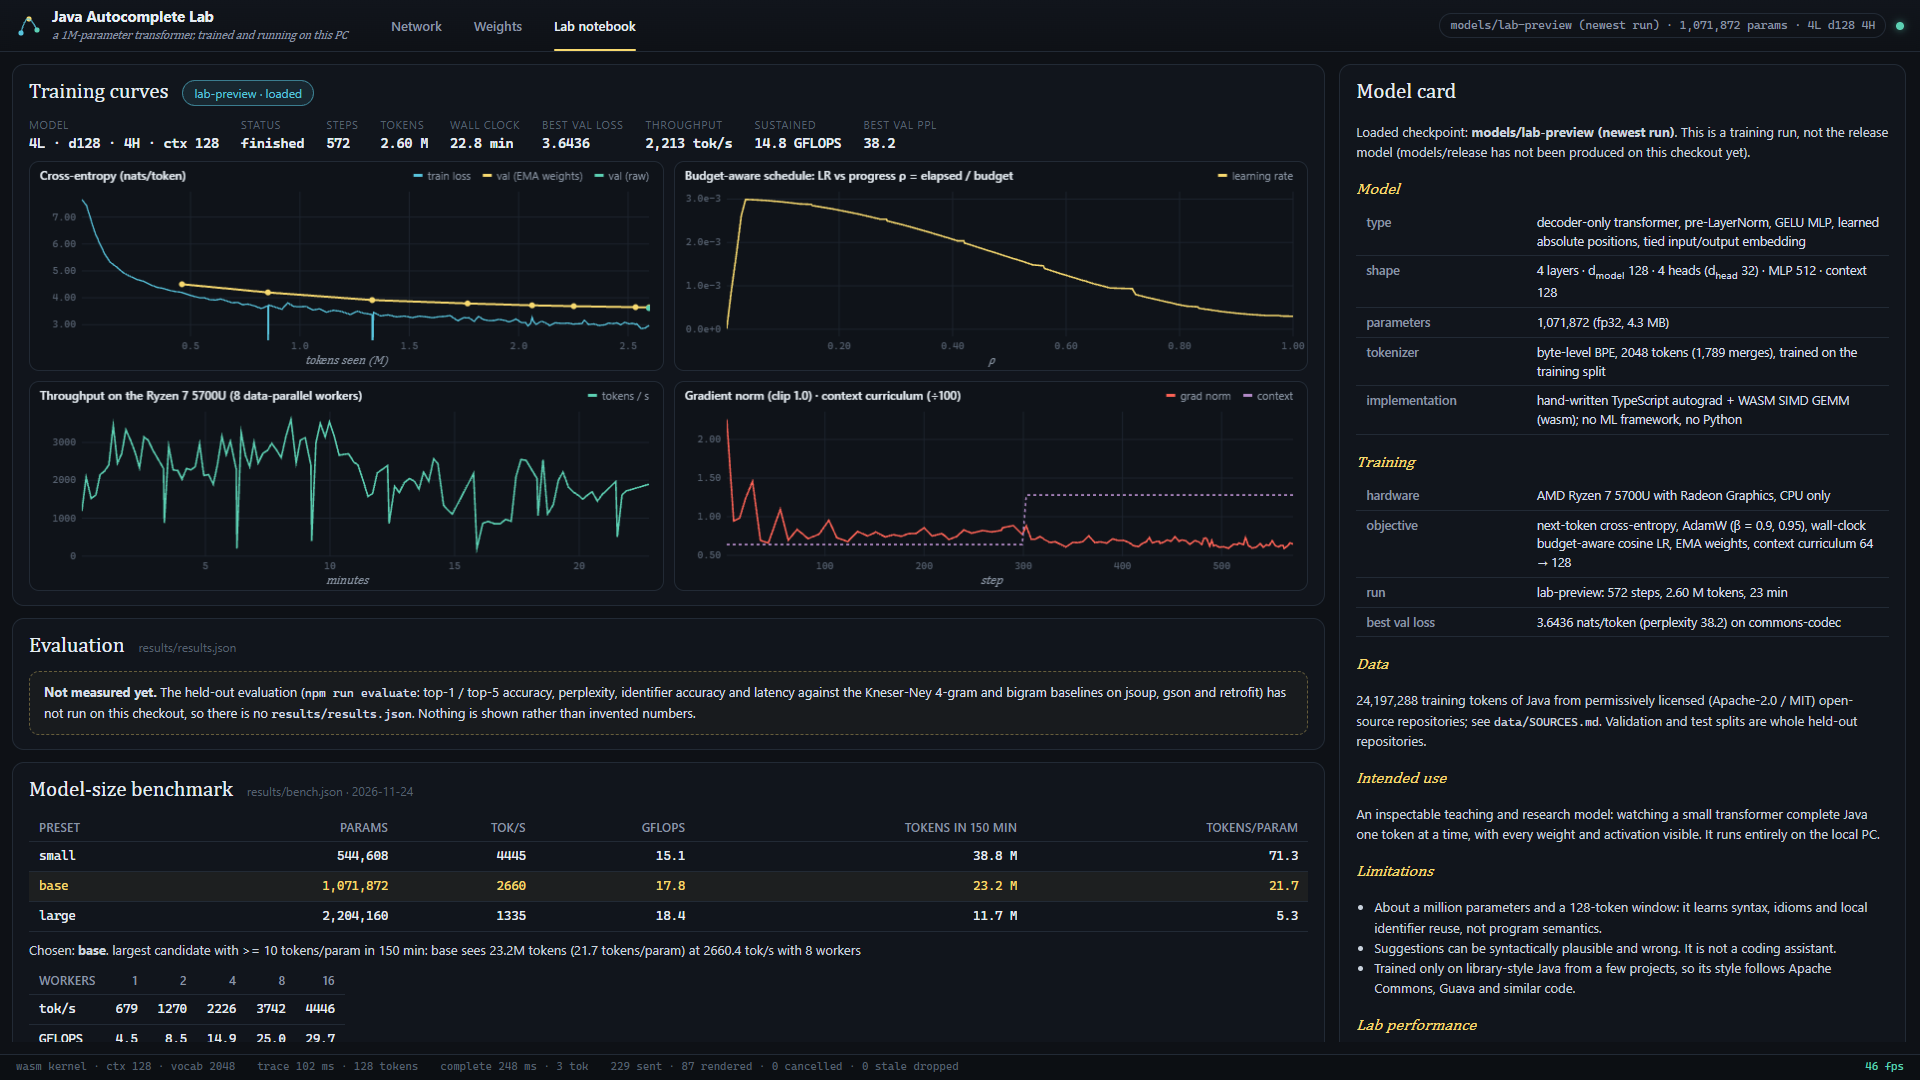
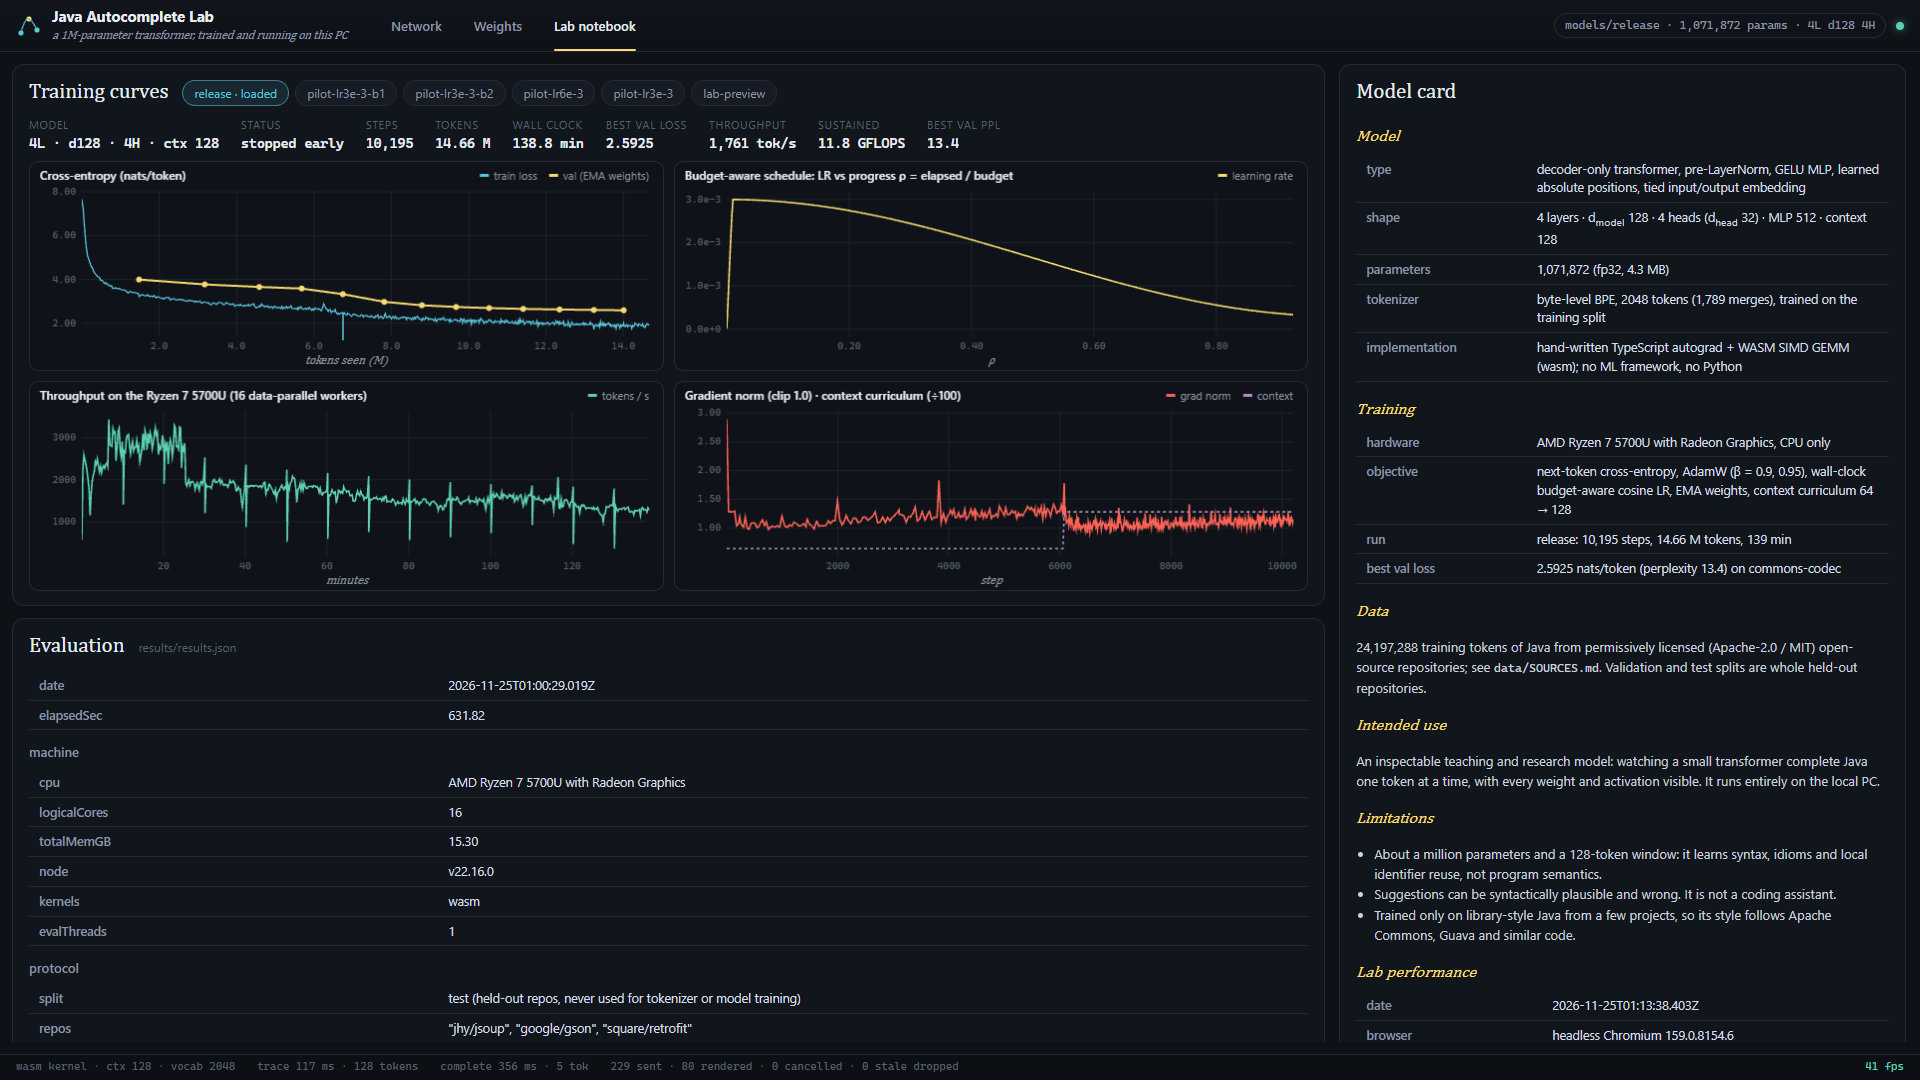
lab: serve models/release, label it correctly, refresh screenshots with the trained model
- an explicit --model models/release is now reported as the release checkpoint
- notebook shows 'stopped early' for runs without an end-of-run record and reads the
  worker count from config instead of a hard-coded 8
- docs/screenshots and results/web-perf.json regenerated against models/release

diff --git a/web/src/views/notebook.ts b/web/src/views/notebook.ts
@@ -16,7 +16,7 @@ interface LogRow {
 interface Run {
   name: string;
   loaded: boolean;
-  config: { model?: Record<string, number>; preset?: string; status?: string; best?: Record<string, number> } | null;
+  config: { model?: Record<string, number>; preset?: string; status?: string; best?: Record<string, number>; train?: { workers?: number } } | null;
   summary: Record<string, number | string> | null;
   log: LogRow[];
 }
@@ -94,7 +94,7 @@ export class NotebookView {
       ], { title: "Budget-aware schedule: LR vs progress ρ = elapsed / budget", xLabel: "ρ", xFmt: (v) => fmt(v, 2), yFmt: (v) => v.toExponential(1) }),
       new LineChart(cv[2], [
         { label: "tokens / s", color: C.teal, points: log.map((r) => [r.t / 60, r.tok_s]) },
-      ], { title: "Throughput on the Ryzen 7 5700U (8 data-parallel workers)", xLabel: "minutes", xFmt: (v) => fmt(v, 0), yFmt: (v) => fmt(v, 0) }),
+      ], { title: `Throughput on the Ryzen 7 5700U (${run?.config?.train?.workers ?? "?"} data-parallel workers)`, xLabel: "minutes", xFmt: (v) => fmt(v, 0), yFmt: (v) => fmt(v, 0) }),
       new LineChart(cv[3], [
         { label: "grad norm", color: C.red, points: log.map((r) => [r.step, r.gnorm]) },
         { label: "context", color: C.purple, points: log.map((r) => [r.step, r.ctx / 100]), dash: [3, 3] },
@@ -121,7 +121,7 @@ function runSummary(run: Run): string {
   const m = run.config?.model;
   if (m) cells.push(["model", `${m.nLayers}L · d${m.dModel} · ${m.nHeads}H · ctx ${m.ctx}`]);
   if (s) {
-    cells.push(["status", "finished"]);
+    cells.push(["status", String(s.completed) === "false" || run.config?.status === "stopped-early" ? "stopped early" : "finished"]);
     cells.push(["steps", fmtInt(Number(s.steps))], ["tokens", `${(Number(s.tokens) / 1e6).toFixed(2)} M`], ["wall clock", `${(Number(s.elapsedSec) / 60).toFixed(1)} min`]);
     cells.push(["best val loss", fmt(Number(s.bestValLoss), 4)], ["throughput", `${fmtInt(Number(s.tokensPerSec))} tok/s`], ["sustained", `${fmt(Number(s.sustainedGflops), 1)} GFLOPS`]);
   } else if (last) {
@@ -197,7 +197,7 @@ function modelCard(nb: Notebook, info: ModelInfo): string {
   const vals = run?.log.filter((r) => r.val_loss !== undefined) ?? [];
   const best = vals.reduce<LogRow | null>((b, r) => (!b || r.val_loss! < b.val_loss! ? r : b), null);
   const warn = info.source.kind === "random" ? `<p class="warn">The server is running a <b>randomly initialised</b> model (no checkpoint in models/). Everything you see is real computation, but the weights are untrained.</p>` : "";
-  const preview = info.source.kind === "run" ? `<p class="warn">Loaded checkpoint: <b>${esc(info.sourceLabel)}</b>. This is a training run, not the release model (models/release has not been produced on this checkout yet).</p>` : "";
+  const preview = info.source.kind === "run" ? `<p class="warn">Loaded checkpoint: <b>${esc(info.sourceLabel)}</b>. This is a training run, not models/release.</p>` : "";
   return `<h2>Model card</h2>${warn}${preview}
   <h3>Model</h3>
   <table class="tbl kvt"><tbody>

diff --git a/src/server/model-host.ts b/src/server/model-host.ts
@@ -151,7 +151,8 @@ export class ModelHost {
     if (!opts.forceRandom) {
       if (opts.modelDir) {
         const dir = resolve(root, opts.modelDir);
-        candidates.push({ dir, src: { kind: "run", dir, run: dir.split(/[\\/]/).pop() ?? dir } });
+        const isRelease = dir === resolve(modelsDir, "release");
+        candidates.push({ dir, src: isRelease ? { kind: "release", dir } : { kind: "run", dir, run: dir.split(/[\\/]/).pop() ?? dir } });
       } else {
         const rel = join(modelsDir, "release");
         if (isCheckpointDir(rel)) candidates.push({ dir: rel, src: { kind: "release", dir: rel } });
